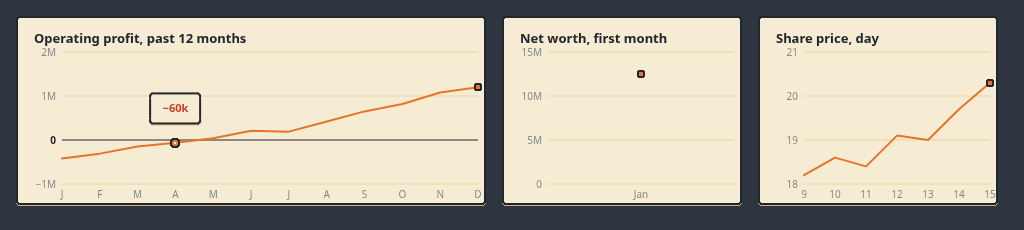
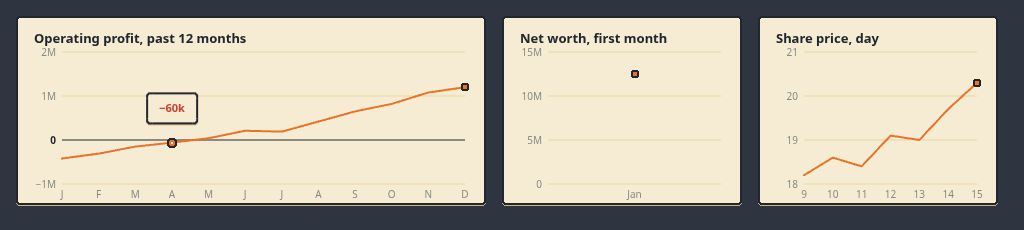
Company Charts tab (#258) (#341)
* Company Charts tab: five charts, Past 12 months / Past years (#258)

* Chart right padding keeps the last dot and label inside the card border (#258)

* Charts: desktop shot over a live game; all-zero axis 0 to 1k (#258)

* Reshoot Charts tab with 1-2-5 grid steps

---------

diff --git a/client/tests/companycharts.test.ts b/client/tests/companycharts.test.ts
@@ -1,0 +1,91 @@
+// @vitest-environment happy-dom
+import { describe, expect, it } from "vitest";
+import style from "../../art/charts.json";
+import { PALETTE, chartLayout } from "../src/ui/chart";
+import { CorpJson, companyReport } from "../src/ui/company";
+import { CHART_SERIES, chartSeries, chartsTab, monthLabels, yearLabels } from "../src/ui/companycharts";
+
+const hist = (n: number, f: (i: number) => number) => Object.fromEntries(CHART_SERIES.map(([k]) => [k, Array.from({ length: n }, (_, i) => f(i))]));
+const today = { year: 1991, month: 3 };
+
+describe("Company charts labels (#258)", () => {
+  it("labels months from the month before today", () => {
+    expect(monthLabels(1, today)).toEqual(["Feb"]);
+    expect(monthLabels(5, today)).toEqual(["Oct", "Nov", "Dec", "Jan", "Feb"]);
+    expect(monthLabels(12, today)).toEqual(["Mar", "Apr", "May", "Jun", "Jul", "Aug", "Sep", "Oct", "Nov", "Dec", "Jan", "Feb"]);
+    expect(monthLabels(1, { year: 1991, month: 1 })).toEqual(["Dec"]);
+  });
+  it("labels years ending with last year", () => {
+    expect(yearLabels(1, today)).toEqual(["1990"]);
+    expect(yearLabels(3, today)).toEqual(["1988", "1989", "1990"]);
+  });
+  it("gives five charts, one series each, for 1, 5 and 12 months", () => {
+    for (const n of [1, 5, 12]) {
+      const s = chartSeries({ month_history: hist(n, (i) => i * 10) }, "months", today);
+      expect(s.map((x) => x.title)).toEqual(["Revenue", "Operating profit", "Other profit", "Expenses", "Net worth"]);
+      for (const x of s) {
+        expect(x.points.map((p) => p.value)).toEqual(Array.from({ length: n }, (_, i) => i * 10));
+        expect(x.points.map((p) => p.label)).toEqual(monthLabels(n, today));
+      }
+    }
+  });
+  it("reads year_history for Past years", () => {
+    const s = chartSeries({ month_history: {}, year_history: { revenue: [5, 7] } }, "years", today);
+    expect(s[0].points).toEqual([
+      { label: "1989", value: 5 },
+      { label: "1990", value: 7 },
+    ]);
+    expect(s[1].points).toEqual([]);
+  });
+});
+
+describe("Company charts tab (#258)", () => {
+  const zeroLines = (el: HTMLElement) =>
+    Array.from(el.querySelectorAll("line")).filter((l) => l.getAttribute("stroke") === PALETTE[style.zero_line.colour]).length;
+
+  it("draws the zero line only on a profit that crosses zero", () => {
+    const h = hist(5, (i) => 100 + i);
+    h.operating_profit = [-300, -100, 50, 200, 120];
+    const el = chartsTab({ month_history: h }, "months", today, 360, () => {});
+    const cards = Array.from(el.querySelectorAll(".chart"));
+    expect(cards.length).toBe(5);
+    expect(cards.map((c) => zeroLines(c as HTMLElement))).toEqual([0, 1, 0, 0, 0]);
+    expect(chartLayout(h.operating_profit.map((value) => ({ label: "", value })), 360, 170).zeroY).not.toBeNull();
+  });
+  it("switches range and says when there is no complete month yet", () => {
+    const picked: string[] = [];
+    const el = chartsTab({ month_history: hist(0, () => 0) }, "months", today, 360, (r) => picked.push(r));
+    expect(el.querySelector(".note")?.textContent).toMatch(/first complete month/);
+    const [months, years] = Array.from(el.querySelectorAll<HTMLButtonElement>(".range .tab"));
+    expect(months.className).toBe("tab on");
+    years.click();
+    expect(picked).toEqual(["years"]);
+  });
+  it("fills the Charts tab of the Company report", () => {
+    const c: CorpJson = {
+      id: 0,
+      name: "P",
+      revenue: 0,
+      operating_expenses: 0,
+      operating_profit: 0,
+      other_profit: 0,
+      net_profit: 0,
+      ledger: { cash: 0, month: [], last_month: [], year: [] },
+      by_firm: [],
+      month_history: hist(12, (i) => i),
+    };
+    const spec = companyReport(c, { tab: "Charts", byFirm: false }, { firmLabel: String, onFirm: () => {}, onState: () => {}, today });
+    expect(spec.body.querySelectorAll(".chart").length).toBe(5);
+    expect(spec.body.querySelector(".coming")).toBeNull();
+  });
+});
+
+describe("all-zero series (#258)", () => {
+  it("gets a 0 to 1k money axis, not fractions", async () => {
+    const { axisRange } = await import("../src/ui/chart");
+    const r = axisRange([0, 0, 0]);
+    expect(r.min).toBe(0);
+    expect(r.ticks.every((t) => Number.isInteger(t))).toBe(true);
+    expect(r.max).toBeGreaterThanOrEqual(1000);
+  });
+});

diff --git a/client/src/ui/companydemo.ts b/client/src/ui/companydemo.ts
@@ -1,10 +1,12 @@
 /**
  * ?company=demo: the Company report with fixed example data, for PR screenshots (#257).
  * Operating profit is a loss that shrank (red figure, green up arrow); other profit fell
- * (green figure, red down arrow). Add &firm=1 for the By firm view.
+ * (green figure, red down arrow). Add &firm=1 for the By firm view, &tab=Charts for the
+ * Charts tab (#258) and &range=years for its Past years switch.
  */
 import { loadUiAtlas } from "./atlas";
-import { CorpJson, ReportState, companyReport } from "./company";
+import { CorpJson, ReportState, TABS, Tab, companyReport } from "./company";
+import { isDesktop } from "./layout";
 import { Shell } from "./shell";
 
 const L = (m: number[], lm: number[], y: number[]) => ({ cash: 0, month: m, last_month: lm, year: y });
@@ -26,16 +28,42 @@ export const DEMO_CORP: CorpJson = {
     { firm: 3, ledger: L([412_300, -98_000, -60_000, -8_000, -151_000, -38_500, -24_800, -2_000, 0, 0, 0, 0], [301_900, -95_000, -60_000, -8_000, -160_200, -35_100, -20_000, 0, 0, 0, 0, 0], [2_431_600, -760_000, -480_000, -64_000, -1_255_300, -301_600, -188_000, -6_200, 0, 0, 0, 0]) },
     { firm: 7, ledger: L([0, -88_000, -40_000, -4_000, 0, 0, 0, 0, -18_000, 0, 0, 0], [0, -86_000, -40_000, -4_000, 0, 0, 0, 0, -16_400, 0, 0, 0], [0, -642_000, -320_000, -32_000, 0, 0, 0, 0, -140_100, 0, 0, 0]) },
   ],
-  month_history: { operating_profit: [-300_000, -120_000], other_profit: [60_000, 45_000] },
+  // Twelve complete months up to Feb 1991 (the demo date is Mar 1991). Operating profit crosses zero.
+  month_history: {
+    revenue: [0, 0, 48_000, 96_500, 141_000, 180_200, 214_800, 251_000, 262_400, 288_900, 301_900, 412_300],
+    operating_profit: [-210_000, -260_000, -312_000, -280_500, -190_000, -95_000, 12_000, 64_000, 41_000, -40_000, -300_000, -120_000],
+    other_profit: [0, 0, 5_000, 12_000, 20_500, 31_000, 38_000, 44_500, 52_000, 58_000, 60_000, 45_000],
+    expenses: [210_000, 260_000, 360_000, 377_000, 331_000, 275_200, 202_800, 187_000, 221_400, 328_900, 601_900, 532_300],
+    net_worth: [9_790_000, 9_530_000, 9_223_000, 8_954_500, 8_785_000, 8_721_000, 8_771_000, 8_879_500, 8_972_500, 8_990_500, 8_750_500, 8_675_500],
+  },
+  year_history: {
+    revenue: [1_284_600],
+    operating_profit: [-1_420_500],
+    other_profit: [261_000],
+    expenses: [2_705_100],
+    net_worth: [8_840_500],
+  },
 };
+
+/** The demo's game date, so chart labels run Mar 1990 to Feb 1991. */
+export const DEMO_TODAY = { year: 1991, month: 3 };
 
 const NAMES: Record<number, string> = { 3: "Department Store #3", 7: "Factory #7" };
 
-export async function showCompanyDemo(resolution: number, byFirm: boolean): Promise<void> {
+export async function showCompanyDemo(resolution: number, byFirm: boolean, params = new URLSearchParams()): Promise<void> {
   await loadUiAtlas(resolution);
   document.body.style.background = "#9fbf8a";
   const shell = new Shell(document.body);
   const open = (s: ReportState) =>
-    shell.open(companyReport(DEMO_CORP, s, { firmLabel: (id) => NAMES[id] ?? `Firm #${id}`, onFirm: () => {}, onState: open }));
-  open({ tab: "Income", byFirm });
+    shell.open(
+      companyReport(DEMO_CORP, s, {
+        firmLabel: (id) => NAMES[id] ?? `Firm #${id}`,
+        onFirm: () => {},
+        onState: open,
+        today: DEMO_TODAY,
+        chartWidth: isDesktop(window.innerWidth) ? 352 : Math.min(480, window.innerWidth - 48),
+      }),
+    );
+  const tab = (TABS as readonly string[]).includes(params.get("tab") ?? "") ? (params.get("tab") as Tab) : "Income";
+  open({ tab, byFirm, chartRange: params.get("range") === "years" ? "years" : "months" });
 }

diff --git a/client/src/ui/companycharts.ts b/client/src/ui/companycharts.ts
@@ -1,0 +1,79 @@
+/**
+ * Company report Charts tab (#258, ux-spec section 3, view brief section 4): five one-series
+ * charts from the corp's `month_history` (Past 12 months) or `year_history` (Past years).
+ * The sim pushes a history entry when a month or year ends, so the last entry is the month
+ * (or year) before the current one.
+ */
+import { ChartPoint, lineChart } from "./chart";
+
+export const CHART_SERIES = [
+  ["revenue", "Revenue"],
+  ["operating_profit", "Operating profit"],
+  ["other_profit", "Other profit"],
+  ["expenses", "Expenses"],
+  ["net_worth", "Net worth"],
+] as const;
+
+export type ChartRange = "months" | "years";
+export const RANGE_NAMES: Record<ChartRange, string> = { months: "Past 12 months", years: "Past years" };
+
+export interface Today {
+  year: number;
+  /** 1 to 12. */
+  month: number;
+}
+
+const MONTHS = ["Jan", "Feb", "Mar", "Apr", "May", "Jun", "Jul", "Aug", "Sep", "Oct", "Nov", "Dec"];
+
+/** Labels for `n` complete months ending with the month before `today`: "Jan" .. "Dec". */
+export function monthLabels(n: number, today: Today): string[] {
+  const last = today.year * 12 + (today.month - 1) - 1; // month index of the last complete month
+  return Array.from({ length: n }, (_, i) => MONTHS[(((last - (n - 1 - i)) % 12) + 12) % 12]);
+}
+
+/** Labels for `n` complete years ending with the year before `today`. */
+export function yearLabels(n: number, today: Today): string[] {
+  return Array.from({ length: n }, (_, i) => String(today.year - n + i));
+}
+
+export interface HistoryJson {
+  month_history: Record<string, number[]>;
+  year_history?: Record<string, number[]>;
+}
+
+/** The five charts' titles and points for one range. */
+export function chartSeries(c: HistoryJson, range: ChartRange, today: Today): { key: string; title: string; points: ChartPoint[] }[] {
+  const hist = (range === "months" ? c.month_history : c.year_history) ?? {};
+  return CHART_SERIES.map(([key, title]) => {
+    const values = hist[key] ?? [];
+    const labels = range === "months" ? monthLabels(values.length, today) : yearLabels(values.length, today);
+    return { key, title, points: values.map((value, i) => ({ label: labels[i], value })) };
+  });
+}
+
+const h = <K extends keyof HTMLElementTagNameMap>(tag: K, cls = "", text = ""): HTMLElementTagNameMap[K] => {
+  const e = document.createElement(tag);
+  if (cls) e.className = cls;
+  if (text) e.textContent = text;
+  return e;
+};
+
+/** The tab body: a Past 12 months / Past years switch and the five chart cards. */
+export function chartsTab(c: HistoryJson, range: ChartRange, today: Today, width: number, onRange: (r: ChartRange) => void): HTMLElement {
+  const box = h("div", "charts");
+  const sw = h("div", "range");
+  for (const r of ["months", "years"] as const) {
+    const b = h("button", r === range ? "tab on" : "tab", RANGE_NAMES[r]);
+    b.setAttribute("aria-pressed", String(r === range));
+    b.onclick = () => onRange(r);
+    sw.append(b);
+  }
+  box.append(sw);
+  const series = chartSeries(c, range, today);
+  if (series.every((s) => !s.points.length)) {
+    box.append(h("div", "note", range === "months" ? "Charts start after your first complete month." : "Charts start after your first complete year."));
+    return box;
+  }
+  for (const s of series) box.append(lineChart(s.points, { title: s.title, width, height: 170 }));
+  return box;
+}

diff --git a/client/src/ui/company.ts b/client/src/ui/company.ts
@@ -1,9 +1,10 @@
 /**
  * Company report (docs/m2-ux-spec.md section 3): tabs Income, Balance, Loans, Charts and
- * Corporation. Only Income is filled in so far (#257); the rest show a placeholder.
+ * Corporation. Income (#257) and Charts (#258) are filled in; the rest show a placeholder.
  * Profit arrows follow view brief section 3: operating and other profit only.
  */
 import { money } from "./layout";
+import { ChartRange, Today, chartsTab } from "./companycharts";
 import { PanelSpec } from "./shell";
 
 /** A ledger from the `corp` query: cash plus the 12 categories for three periods. */
@@ -26,6 +27,7 @@ export interface CorpJson {
   ledger: LedgerJson;
   by_firm: { firm: number; ledger: LedgerJson }[];
   month_history: Record<string, number[]>;
+  year_history?: Record<string, number[]>;
 }
 
 /** Ledger category names, fixed by the ledger (ux-spec section 3). 0 is revenue, the rest are costs. */
@@ -87,6 +89,8 @@ export const dollars = (v: number) => money(v).replace(/^\+/, "");
 export interface ReportState {
   tab: Tab;
   byFirm: boolean;
+  /** Charts tab: Past 12 months or Past years (default months). */
+  chartRange?: ChartRange;
 }
 
 export interface ReportHooks {
@@ -95,6 +99,10 @@ export interface ReportHooks {
   onFirm: (id: number) => void;
   /** Re-render with a new tab or toggle. */
   onState: (s: ReportState) => void;
+  /** Current game date, for chart labels. */
+  today?: Today;
+  /** Chart card width in CSS px: panel width less padding and room for a scrollbar. */
+  chartWidth?: number;
 }
 
 const h = <K extends keyof HTMLElementTagNameMap>(tag: K, cls = "", text = ""): HTMLElementTagNameMap[K] => {
@@ -162,6 +170,14 @@ export function companyReport(c: CorpJson, s: ReportState, hooks: ReportHooks): 
     tabs.append(b);
   }
   const body = h("div", "company");
-  body.append(tabs, s.tab === "Income" ? incomeTab(c, s, hooks) : h("div", "note coming", `${s.tab} is coming in a later update.`));
+  const tab =
+    s.tab === "Income"
+      ? incomeTab(c, s, hooks)
+      : s.tab === "Charts"
+        ? chartsTab(c, s.chartRange ?? "months", hooks.today ?? { year: 1990, month: 1 }, hooks.chartWidth ?? 358, (r) =>
+            hooks.onState({ ...s, chartRange: r }),
+          )
+        : h("div", "note coming", `${s.tab} is coming in a later update.`);
+  body.append(tabs, tab);
   return { key: "company", title: c.name, body, height: "full", heights: ["half", "full"] };
 }

diff --git a/client/src/main.ts b/client/src/main.ts
@@ -45,7 +45,7 @@ async function boot() {
     return;
   }
   if (params.get("company") === "demo") {
-    await showCompanyDemo(Math.max(1, Math.round(devicePixelRatio)), params.get("firm") === "1");
+    await showCompanyDemo(Math.max(1, Math.round(devicePixelRatio)), params.get("firm") === "1", params);
     document.title = "Capitalism++ company ready";
     return;
   }
@@ -221,10 +221,13 @@ async function boot() {
   // Company report (#257): Menu > Company or C on desktop; refreshes each month while open.
   let report: ReportState = { tab: "Income", byFirm: false };
   const firmById = (id: number) => map.firms.find((f) => f.id === id);
+  let today = { year: 1990, month: 1 };
   const showCompany = async () => {
     const corp = await sim.query<CorpJson>("corp", { id: 0 });
     shell.open(
       companyReport(corp, report, {
+        today,
+        chartWidth: isDesktop(window.innerWidth) ? 352 : Math.min(480, window.innerWidth - 48),
         firmLabel: (id) => `${FIRM_NAMES[firmById(id)?.type ?? -1] ?? "Firm"} #${id}`,
         onFirm: (id) => {
           const f = firmById(id);
@@ -238,6 +241,7 @@ async function boot() {
   const onTickReport = sim.onTick;
   sim.onTick = (t) => {
     onTickReport(t);
+    today = { year: t.year, month: t.month };
     const month = t.year * 12 + t.month;
     if (month !== reportMonth && reportMonth >= 0 && shell.current?.key === "company") void showCompany();
     reportMonth = month;

diff --git a/client/src/ui/chart.ts b/client/src/ui/chart.ts
@@ -54,7 +54,7 @@ export function axisRange(values: number[], lines = style.grid.lines): { min: nu
   if (lo === hi) {
     lo = Math.min(0, lo);
     hi = Math.max(0, hi);
-    if (lo === hi) hi = 1;
+    if (lo === hi) hi = 1000; // all zero: a money axis of 0 to 1k, not 0.5 steps
   }
   const intervals = Math.max(1, lines - 1);
   const raw = (hi - lo) / intervals;
@@ -80,7 +80,15 @@ export interface ChartLayout {
   zeroY: number | null;
 }
 
-const PAD = { left: 40, right: 14, top: 30, bottom: 28 };
+/** The card frame's border (ui_atlas card slice 6 + 6): the SVG sits inside it, so the card's
+ * inner right edge is at x = w - CARD_BORDER. */
+const CARD_BORDER = 12;
+/** Half the widest x label ("1990" at 10 pt, about 22 pt wide) and the tapped dot's radius. */
+const LABEL_HALF = 11;
+const DOT_R = 5;
+/** Right padding keeps the last dot and its x label inside the border, plus 4 pt (Artist, #341).
+ * The same for every chart so the cards line up. */
+const PAD = { left: 40, right: CARD_BORDER + Math.max(LABEL_HALF, DOT_R) + 4, top: 30, bottom: 28 };
 
 /** Pure layout: where each tick, grid line and point goes in a w x h chart. */
 export function chartLayout(

diff --git a/client/src/ui/shell.css b/client/src/ui/shell.css
@@ -84,6 +84,11 @@
 .firm-row { display: block; width: 100%; text-align: left; margin-top: 10px; padding: 6px 0; font-weight: 800; border: 0;
   color: #3b6db3 !important; }
 .company .tabs .tab { flex: 1 1 auto; padding: 8px 2px; min-width: 0; }
+/* Company Charts tab (#258). */
+.charts { display: flex; flex-direction: column; gap: 10px; padding-bottom: 8px; }
+.company .range { display: flex; gap: 8px; }
+.company .range .tab { flex: 1 1 0; border: 2px solid #22262e; border-radius: 4px; min-height: 36px; box-shadow: none; }
+.company .range .tab.on { background: #e8742a; color: #fff; }
 
 /* News feed (#254): filters as chips (phone) or three columns (desktop); bold important rows. */
 .news-filters { display: flex; flex-direction: column; gap: 4px; margin-bottom: 6px; }
